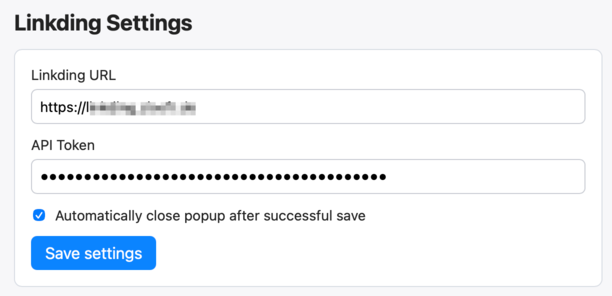
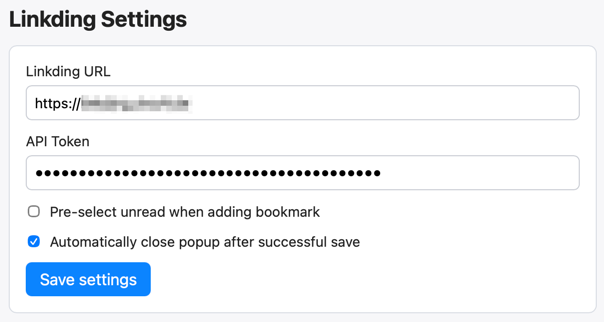
add setting for default unread

diff --git a/Shared (App)/Resources/popup.css b/Shared (App)/Resources/popup.css
@@ -10,7 +10,7 @@ body {
 }
 
 main {
-  padding: 12px;
+  padding: 0.5em;
 }
 
 h1 {
@@ -22,28 +22,28 @@ h1 {
   display: flex;
   align-items: center;
   justify-content: space-between;
-  margin: 0 0 10px;
+  margin: 0 0 0.625em;
 }
 
 .title-brand {
   display: flex;
   align-items: center;
-  gap: 8px;
+  gap: 0.5em;
 }
 
 .title-actions {
   display: flex;
-  gap: 6px;
+  gap: 0.4em;
 }
 
 form {
   display: grid;
-  gap: 8px;
+  gap: 0.5em;
 }
 
 label {
   display: grid;
-  gap: 4px;
+  gap: 0.25em;
   font-size: 12px;
   color: #333;
 }
@@ -52,7 +52,7 @@ label {
   display: flex;
   align-items: center;
   justify-content: flex-start;
-  gap: 8px;
+  gap: 0.5em;
 }
 
 .checkbox-row input[type="checkbox"] {
@@ -70,8 +70,8 @@ input:not([type="checkbox"]),
 textarea {
   width: 100%;
   border: 1px solid #c9ccd3;
-  border-radius: 6px;
-  padding: 8px;
+  border-radius: 0.375em;
+  padding: 0.5em;
   background: white;
 }
 
@@ -83,13 +83,14 @@ textarea {
   display: flex;
   justify-content: space-between;
   align-items: center;
-  margin-top: 4px;
+  margin-top: 0.25em;
 }
 
 button {
   border: none;
-  border-radius: 6px;
-  padding: 8px 12px;
+  border-radius: 0.375em;
+  padding: 0.2em 0.5em;
+  font-size: 14px;
   background: #0a84ff;
   color: #fff;
   cursor: pointer;
@@ -99,11 +100,9 @@ button {
   display: inline-flex;
   align-items: center;
   justify-content: center;
-  width: 30px;
-  height: 30px;
   padding: 0;
-  border: 1px solid #c9ccd3;
-  background: #fff;
+  border: none;
+  background: transparent;
   color: #4b5563;
 }
 
@@ -121,7 +120,7 @@ button:disabled {
 }
 
 #status {
-  margin: 10px 2px 0;
+  margin: 0.625em 0.125em 0;
   min-height: 1.2em;
   font-size: 12px;
 }
@@ -148,15 +147,15 @@ button:disabled {
   position: absolute;
   left: 0;
   right: 0;
-  top: calc(100% + 2px);
+  top: calc(100% + 0.125em);
   z-index: 20;
   list-style: none;
   margin: 0;
-  padding: 4px;
+  padding: 0.25em;
   border: 1px solid #c9ccd3;
-  border-radius: 6px;
+  border-radius: 0.375em;
   background: #fff;
-  max-height: 140px;
+  max-height: 8.75em;
   overflow: auto;
   box-shadow: 0 6px 16px rgba(0, 0, 0, 0.12);
 }
@@ -165,12 +164,12 @@ button:disabled {
   display: block;
   width: 100%;
   border: none;
-  border-radius: 4px;
+  border-radius: 0.25em;
   background: transparent;
   color: #1f2937;
   font-size: 12px;
   text-align: left;
-  padding: 6px 8px;
+  padding: 0.375em 0.5em;
   cursor: pointer;
 }
 

diff --git a/Shared (App)/Resources/options.js b/Shared (App)/Resources/options.js
@@ -3,6 +3,7 @@ const browserApi = globalThis.browser ?? globalThis.chrome;
 const form = document.getElementById("options-form");
 const baseUrlInput = document.getElementById("baseUrl");
 const apiTokenInput = document.getElementById("apiToken");
+const unreadDefaultInput = document.getElementById("unreadDefault");
 const autoCloseInput = document.getElementById("autoCloseOnSuccess");
 const statusEl = document.getElementById("status");
 
@@ -26,9 +27,10 @@ function normalizeBaseUrl(baseUrl) {
 }
 
 async function initialize() {
-  const stored = await storageGet(["baseUrl", "apiToken", "autoCloseOnSuccess"]);
-  baseUrlInput.value = stored.baseUrl || "https://linkding.zisoft.de";
+  const stored = await storageGet(["baseUrl", "apiToken", "unreadDefault", "autoCloseOnSuccess"]);
+  baseUrlInput.value = stored.baseUrl || "";
   apiTokenInput.value = stored.apiToken || "";
+  unreadDefault.checked = Boolean(stored.unreadDefault);
   autoCloseInput.checked = Boolean(stored.autoCloseOnSuccess);
 }
 
@@ -37,6 +39,7 @@ form.addEventListener("submit", async (event) => {
 
   const baseUrl = normalizeBaseUrl(baseUrlInput.value.trim());
   const apiToken = apiTokenInput.value.trim();
+  const unreadDefault = unreadDefaultInput.checked;
   const autoCloseOnSuccess = autoCloseInput.checked;
 
   if (!baseUrl || !apiToken) {
@@ -44,7 +47,7 @@ form.addEventListener("submit", async (event) => {
     return;
   }
 
-  await storageSet({ baseUrl, apiToken, autoCloseOnSuccess });
+  await storageSet({ baseUrl, apiToken, unreadDefault, autoCloseOnSuccess });
   setStatus("✅ Settings saved.", "success");
 });
 

diff --git a/Shared (App)/Resources/popup.html b/Shared (App)/Resources/popup.html
@@ -10,7 +10,7 @@
     <main>
       <div class="title-row">
         <h1 class="title-brand">
-          <img src="icon-32.png" alt="" width="18" height="18" />
+		  <svg xmlns="http://www.w3.org/2000/svg" width="18" height="18" viewBox="0 0 24 24" fill="none" stroke="currentColor" stroke-width="2" stroke-linecap="round" stroke-linejoin="round" class="lucide lucide-paperclip preview-icon"><path d="m16 6-8.414 8.586a2 2 0 0 0 2.829 2.829l8.414-8.586a4 4 0 1 0-5.657-5.657l-8.379 8.551a6 6 0 1 0 8.485 8.485l8.379-8.551"/></svg>
           <span>Linkding</span>
         </h1>
         <div class="title-actions">
@@ -62,11 +62,11 @@
           <button id="deleteBookmark" type="button" class="icon-button danger" title="Delete bookmark" disabled>
             <svg xmlns="http://www.w3.org/2000/svg" width="18" height="18" viewBox="0 0 24 24" fill="none" stroke="currentColor" stroke-width="2" stroke-linecap="round" stroke-linejoin="round"><path d="M10 11v6"/><path d="M14 11v6"/><path d="M19 6v14a2 2 0 0 1-2 2H7a2 2 0 0 1-2-2V6"/><path d="M3 6h18"/><path d="M8 6V4a2 2 0 0 1 2-2h4a2 2 0 0 1 2 2v2"/></svg>
           </button>
-          <button id="save" type="submit">Save bookmark</button>
+		  <div id="status" role="status" aria-live="polite"></div>
+          <button id="save" type="submit">Save</button>
         </div>
       </form>
 
-      <p id="status" role="status" aria-live="polite"></p>
     </main>
 
     <script src="popup.js"></script>

diff --git a/Shared (App)/Resources/options.html b/Shared (App)/Resources/options.html
@@ -13,7 +13,7 @@
       <form id="options-form">
         <label>
           Linkding URL
-          <input id="baseUrl" type="url" placeholder="https://linkding.zisoft.de" required />
+          <input id="baseUrl" type="url" placeholder="https://linkding.example.com" required />
         </label>
 
         <label>
@@ -22,8 +22,13 @@
         </label>
 
         <label class="checkbox-row">
+          <input id="unreadDefault" type="checkbox" />
+          Pre-select unread when adding bookmark
+        </label>
+
+        <label class="checkbox-row">
           <input id="autoCloseOnSuccess" type="checkbox" />
-Automatically close popup after successful save
+          Automatically close popup after successful save
         </label>
 
         <button type="submit">Save settings</button>

diff --git a/Shared (App)/Resources/popup.js b/Shared (App)/Resources/popup.js
@@ -565,7 +565,7 @@ function focusPrimaryInput() {
 
 async function initialize() {
   resetDuplicateState();
-  const stored = await storageGet(["baseUrl", "apiToken"]);
+  const stored = await storageGet(["baseUrl", "apiToken", "unreadDefault"]);
 
   if (!stored.baseUrl || !stored.apiToken) {
     setStatus("Please set Linkding URL and API token in Settings.", "error");
@@ -575,6 +575,7 @@ async function initialize() {
     const tab = await getActiveTab();
     titleInput.value = tab.title || "";
     urlInput.value = tab.url || "";
+	unreadInput.checked = stored.unreadDefault;
 
     const pageDescription = await getPageDescription(tab.id);
     if (pageDescription && !descriptionInput.value.trim()) {

diff --git a/README.md b/README.md
@@ -36,17 +36,18 @@ A Safari Web Extension to quickly save the current page to your [Linkding](https
 
 ## Screenshots
 
+### Popup
 ![Popup](assets/popup.png)
-Popup
 
+### Tag Suggestions
 ![Tag suggestions](assets/tag-suggestions.png)
-Tag suggestions
 
+### Duplicate Detection
 ![Duplicate detection](assets/duplicate.png)
-Duplicate detection
 
+### Settings
 ![Settings](assets/settings.png)
-Settings
+
 
 ## Project structure
 
